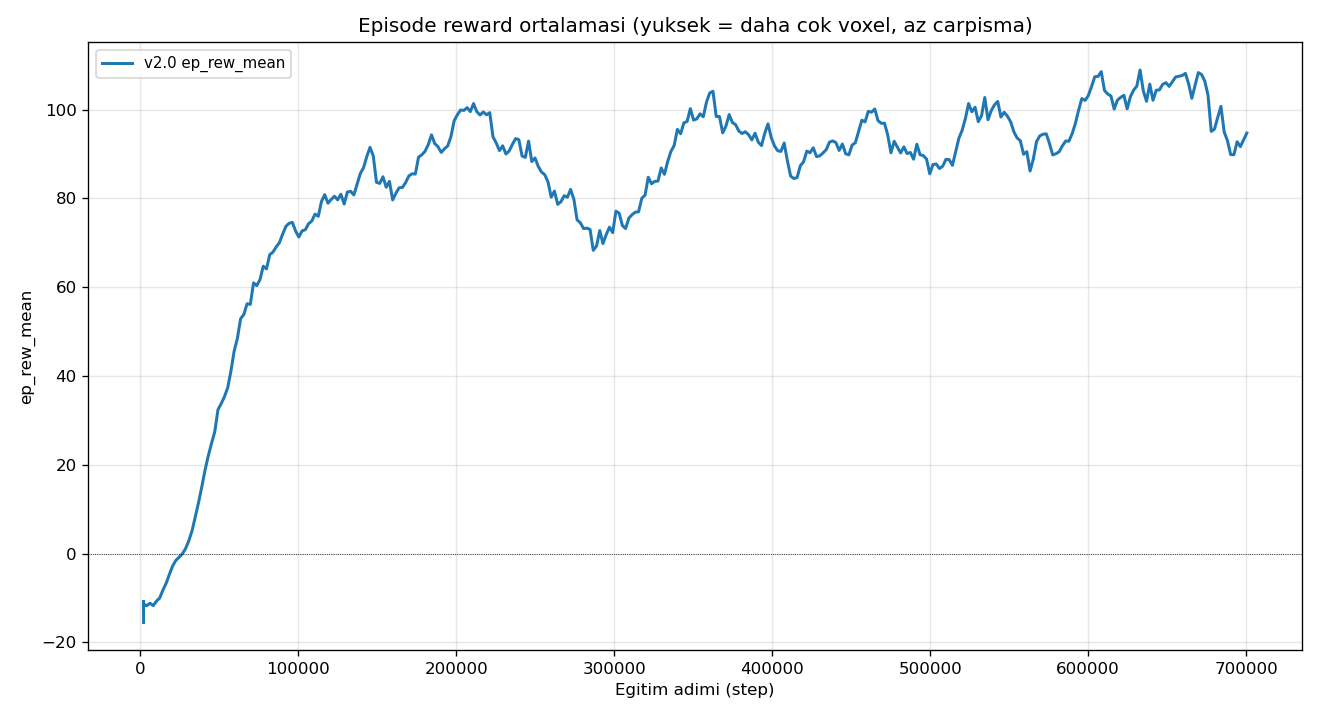
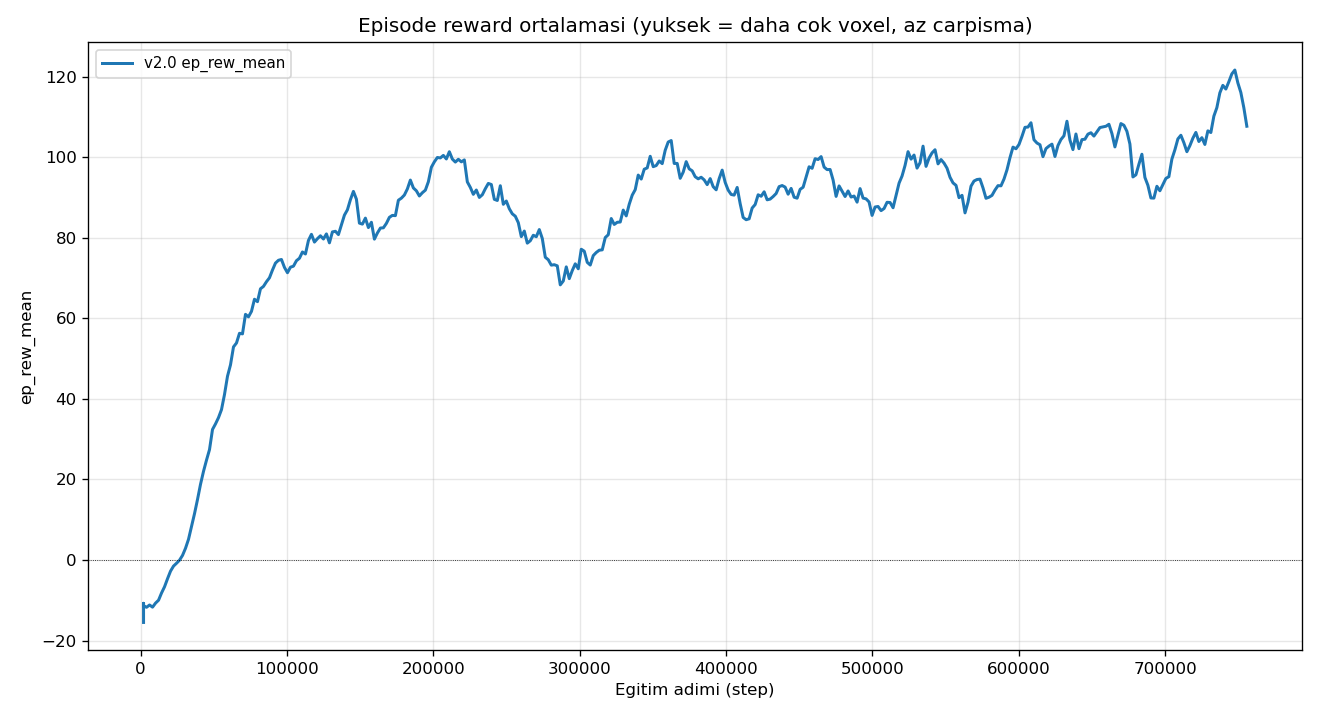
v2.1: yon-duyarli (kapi-bilincli) lidar cezasi + episode 1500 + eval altyapisi
- v2.0 100-ep eval (scripts/eval_coverage.py): carpisma %70, voxels_max 201, kapsama %36
  figurler: docs/figures/eval_v2_0_{coverage,trajectories}.png, docs/EVAL_v2_0.md
- TANI: darbogaz carpisma (kapi/hareketli engel). Eski yonsuz duvar cezasi 2m kapida
  dogru gecisi cezalandiriyordu.
- v2.1 FIX: ileri-ark (+/-22deg, <1.5m) yon-duyarli ceza, siyirma <0.5m, ileri-acik 0.10,
  max_episode_steps 1000->1500, FRESH 500k (runs/ppo_v2_1).
- operator playbook: veriye dayali periyodik tani + hedefli versiyon + bakim modu (sec 0/3.5)

diff --git a/scripts/eval_coverage.py b/scripts/eval_coverage.py
@@ -1,0 +1,208 @@
+#!/usr/bin/env python3
+"""v2.x policy'sini N episode degerlendirir ve haritayi NASIL gezdigini gorsellestirir.
+
+Cikti:
+  docs/figures/eval_<ver>_coverage.png     - kapsama isi haritasi (hangi hucre kac kez gezildi) + duvarlar
+  docs/figures/eval_<ver>_trajectories.png  - ornek yorungeler + baslangic + carpisma noktalari
+  docs/EVAL_<ver>.md                         - istatistik ozeti
+
+Sim AYRI bir process'te ayakta olmali (runner script halleder). norm_obs=false
+oldugu icin policy ham obs bekler -> VecNormalize gerekmez, ham env kullanilir.
+Engeller train_ppo'daki updater thread ile hareket ettirilir (gercekci kosul).
+"""
+from __future__ import annotations
+
+import argparse
+import json
+from pathlib import Path
+
+import numpy as np
+import matplotlib
+matplotlib.use("Agg")
+import matplotlib.pyplot as plt  # noqa: E402
+from matplotlib.lines import Line2D  # noqa: E402
+
+from stable_baselines3 import PPO
+
+from rl_drone_pathfinding.envs import DroneExplorationEnv
+from rl_drone_pathfinding.envs.drone_exploration_env import (
+    SPAWN_X, SPAWN_Y, WORLD_HALF, GRID_NXY, GRID_CELL_XY, N_ROOMS,
+)
+from rl_drone_pathfinding.agents.train_ppo import _start_obstacle_updaters
+
+REPO = Path(__file__).resolve().parents[1]
+TOTAL = GRID_NXY * GRID_NXY
+
+# multi_room.sdf duvar segmentleri (gorsel icin) — [(x0,y0,x1,y1), ...]
+WALLS = [
+    # dis sinir
+    (-8, -8, 8, -8), (-8, 8, 8, 8), (-8, -8, -8, 8), (8, -8, 8, 8),
+    # ic dikey x=-2 (kapi y[-4,-2])
+    (-2, -8, -2, -4), (-2, -2, -2, 8),
+    # ic dikey x=4 (kapi y[3,5])
+    (4, -8, 4, 3), (4, 5, 4, 8),
+    # ic yatay y=0 (kapilar x[-7,-5],[0,2],[5,7])
+    (-8, 0, -7, 0), (-5, 0, 0, 0), (2, 0, 5, 0), (7, 0, 8, 0),
+]
+
+
+def draw_walls(ax):
+    for (x0, y0, x1, y1) in WALLS:
+        ax.plot([x0, x1], [y0, y1], color="black", linewidth=2.5, zorder=5)
+    # oda etiketleri
+    labels = {"R3": (-5, 4), "R4": (1, 4), "R5": (6, 4),
+              "R0": (-5, -4), "R1": (1, -4), "R2": (6, -4)}
+    for name, (lx, ly) in labels.items():
+        ax.text(lx, ly, name, fontsize=9, color="gray", ha="center", alpha=0.6, zorder=4)
+
+
+def main(argv=None):
+    ap = argparse.ArgumentParser()
+    ap.add_argument("--model", required=True)
+    ap.add_argument("--episodes", type=int, default=100)
+    ap.add_argument("--config", default=str(REPO / "configs/ppo.yaml"))
+    ap.add_argument("--deterministic", action="store_true", default=True)
+    ap.add_argument("--stochastic", dest="deterministic", action="store_false")
+    ap.add_argument("--version", default="v2_0")
+    args = ap.parse_args(argv)
+
+    import yaml
+    cfg = yaml.safe_load(open(args.config))
+    env_cfg = cfg["env"]
+
+    env = DroneExplorationEnv(
+        world_name=env_cfg["world_name"],
+        drone_name=env_cfg["drone_name"],
+        max_episode_steps=env_cfg["max_episode_steps"],
+    )
+    # Engelleri hareket ettir (egitimdeki gercekci kosul)
+    obs_threads, obs_stop = _start_obstacle_updaters(env_cfg["world_name"], 1)
+
+    model = PPO.load(args.model)
+    print(f"[eval] model={args.model} episodes={args.episodes} deterministic={args.deterministic}")
+
+    coverage = np.zeros((GRID_NXY, GRID_NXY), dtype=np.float64)
+    returns, voxels_l, rooms_l, eplen_l = [], [], [], []
+    collisions = 0
+    collision_pts = []
+    trajectories = []  # ornek yorungeler (ilk ~12)
+
+    for ep in range(args.episodes):
+        obs, _ = env.reset()
+        done = False
+        ret = 0.0
+        traj = [(SPAWN_X, SPAWN_Y)]
+        info = {}
+        steps = 0
+        while not done:
+            action, _ = model.predict(obs, deterministic=args.deterministic)
+            obs, r, term, trunc, info = env.step(action)
+            ret += r
+            steps += 1
+            traj.append((info["x"], info["y"]))
+            done = term or trunc
+        coverage += env._explored
+        returns.append(ret)
+        voxels_l.append(info.get("explored_voxels", 0))
+        rooms_l.append(info.get("visited_rooms", 0))
+        eplen_l.append(steps)
+        if info.get("collision"):
+            collisions += 1
+            collision_pts.append((info["x"], info["y"]))
+        if ep < 12:
+            trajectories.append((traj, bool(info.get("collision"))))
+        if (ep + 1) % 10 == 0:
+            print(f"[eval] {ep+1}/{args.episodes}  ret~{np.mean(returns):.1f}  "
+                  f"vox~{np.mean(voxels_l):.0f}  rooms~{np.mean(rooms_l):.2f}  "
+                  f"col%={100*collisions/(ep+1):.0f}", flush=True)
+
+    obs_stop.set()
+
+    returns = np.array(returns); voxels_l = np.array(voxels_l)
+    rooms_l = np.array(rooms_l); eplen_l = np.array(eplen_l)
+    cov_cells = int((coverage > 0).sum())  # en az 1 kez gezilen hucre sayisi
+
+    fig_dir = REPO / "docs" / "figures"; fig_dir.mkdir(parents=True, exist_ok=True)
+
+    # ---- Figur 1: kapsama isi haritasi ----
+    fig, ax = plt.subplots(figsize=(9, 8))
+    frac = coverage.T / args.episodes  # T: x yatay, y dikey
+    im = ax.imshow(frac, origin="lower", extent=[-WORLD_HALF, WORLD_HALF, -WORLD_HALF, WORLD_HALF],
+                   cmap="viridis", vmin=0, vmax=1, aspect="equal")
+    draw_walls(ax)
+    ax.plot(SPAWN_X, SPAWN_Y, marker="*", color="red", markersize=20,
+            markeredgecolor="white", zorder=6, label="Baslangic (R0)")
+    fig.colorbar(im, ax=ax, label="episode orani (1.0 = her episode gezildi)")
+    ax.set_title(f"v2.0 KAPSAMA ISI HARITASI — {args.episodes} episode\n"
+                 f"birlesik benzersiz hucre: {cov_cells}/{TOTAL}")
+    ax.set_xlabel("x (m)"); ax.set_ylabel("y (m)"); ax.legend(loc="upper right")
+    fig.tight_layout()
+    p1 = fig_dir / f"eval_{args.version}_coverage.png"; fig.savefig(p1, dpi=120); plt.close(fig)
+    print(f"saved {p1}")
+
+    # ---- Figur 2: ornek yorungeler + carpisma noktalari ----
+    fig, ax = plt.subplots(figsize=(9, 8))
+    draw_walls(ax)
+    cmap = plt.cm.tab10
+    for i, (traj, col) in enumerate(trajectories):
+        xs = [p[0] for p in traj]; ys = [p[1] for p in traj]
+        ax.plot(xs, ys, color=cmap(i % 10), linewidth=1.0, alpha=0.7, zorder=3)
+    # tum carpisma noktalari
+    if collision_pts:
+        cx = [p[0] for p in collision_pts]; cy = [p[1] for p in collision_pts]
+        ax.scatter(cx, cy, marker="x", color="red", s=60, linewidths=2,
+                   zorder=7, label=f"carpisma ({len(collision_pts)})")
+    ax.plot(SPAWN_X, SPAWN_Y, marker="*", color="lime", markersize=20,
+            markeredgecolor="black", zorder=8, label="Baslangic (R0)")
+    ax.set_xlim(-WORLD_HALF, WORLD_HALF); ax.set_ylim(-WORLD_HALF, WORLD_HALF)
+    ax.set_aspect("equal")
+    ax.set_title(f"v2.0 ORNEK YORUNGELER (ilk {len(trajectories)} ep) + TUM carpisma noktalari")
+    ax.set_xlabel("x (m)"); ax.set_ylabel("y (m)"); ax.legend(loc="upper right")
+    fig.tight_layout()
+    p2 = fig_dir / f"eval_{args.version}_trajectories.png"; fig.savefig(p2, dpi=120); plt.close(fig)
+    print(f"saved {p2}")
+
+    # ---- Markdown ozet ----
+    def stat(a):
+        return f"{a.mean():.1f} ± {a.std():.1f}  (min {a.min():.0f}, max {a.max():.0f})"
+    md = [
+        f"# v2.0 Performans Degerlendirmesi — {args.episodes} episode", "",
+        f"Model: `{Path(args.model).name}` | deterministic={args.deterministic} | hareketli engeller: aktif", "",
+        "## Istatistikler", "",
+        "| Metrik | Deger |", "|---|---|",
+        f"| Return (odul) | {stat(returns)} |",
+        f"| Kesfedilen voxel / {TOTAL} | {stat(voxels_l)} |",
+        f"| Ziyaret edilen oda / {N_ROOMS} | {stat(rooms_l)} |",
+        f"| Episode uzunlugu / {env_cfg['max_episode_steps']} | {stat(eplen_l)} |",
+        f"| Carpisma orani | {100*collisions/args.episodes:.0f}% ({collisions}/{args.episodes}) |",
+        f"| Birlesik benzersiz hucre kapsama | {cov_cells}/{TOTAL} ({100*cov_cells/TOTAL:.0f}%) |",
+        "",
+        "## Yorum",
+        f"- Episode'larin %{100*collisions/args.episodes:.0f}'i CARPISMA ile bitti "
+        f"(ort. {eplen_l.mean():.0f}/{env_cfg['max_episode_steps']} adim). Carpismasa daha cok gezecek.",
+        f"- {N_ROOMS} odanin ortalama {rooms_l.mean():.1f}'ine ulasiliyor (max {rooms_l.max():.0f}).",
+        f"- 100 episode birlesince haritanin %{100*cov_cells/TOTAL:.0f}'i en az bir kez geziliyor.",
+        "",
+        "![coverage](figures/eval_%s_coverage.png)" % args.version, "",
+        "![trajectories](figures/eval_%s_trajectories.png)" % args.version, "",
+    ]
+    (REPO / "docs" / f"EVAL_{args.version}.md").write_text("\n".join(md))
+    print(f"saved {REPO / 'docs' / f'EVAL_{args.version}.md'}")
+
+    # JSON ozet (stdout) — runner/operator parse edebilir
+    print("EVAL_SUMMARY " + json.dumps({
+        "episodes": args.episodes,
+        "return_mean": float(returns.mean()), "return_std": float(returns.std()),
+        "voxels_mean": float(voxels_l.mean()), "voxels_max": int(voxels_l.max()),
+        "rooms_mean": float(rooms_l.mean()), "rooms_max": int(rooms_l.max()),
+        "eplen_mean": float(eplen_l.mean()),
+        "collision_rate": collisions / args.episodes,
+        "union_coverage_cells": cov_cells, "union_coverage_pct": 100 * cov_cells / TOTAL,
+    }))
+
+    import os as _os
+    _os._exit(0)
+
+
+if __name__ == "__main__":
+    main()

diff --git a/ros2_ws/src/rl_drone_pathfinding/rl_drone_pathfinding/envs/drone_exploration_env.py b/ros2_ws/src/rl_drone_pathfinding/rl_drone_pathfinding/envs/drone_exploration_env.py
@@ -22,18 +22,21 @@ Gozlem (40-d, hepsi normalize [-1,1] / [0,1]):
     [36:38] : (kesif_orani, ziyaret_edilen_oda_orani)              -> [0,1]
     [38:40] : (min_lidar/LIDAR_MAX, idle_orani)                    -> [0,1]
 
-Odul (v2.0 — temiz, olcekli, yorumlanabilir):
+Odul (v2.1 — YON-DUYARLI ceza; v2.0 eval'inde %70 carpisma -> kapi/engel-bilincli):
     bir adimda toplam r =
         -0.01                          her adim zaman cezasi
         +1.0   * yeni_voxel            yeni zemin hucresi kesfi (ANA sinyal)
         +10.0  * yeni_oda              yeni odaya gecis (kilometre tasi)
         -0.05  (idle)                  IDLE_GRACE adimdir yeni voxel yoksa
-        -0.5 * (1 - d/WALL_DIST)       duvara/engele yaklasma (d<WALL_DIST)
-        +0.05 * acik_on * ileri        ileri-acik bootstrap sekillendirmesi
+        -0.6 * (1 - fwd/1.5)           ILERI-ARK engel yakin (gidilen yon) -> kapi-bilincli
+        -0.3 * (1 - d/0.5)             her yon cok yakin (siyirma; kapi 0.85m -> guvende)
+        +0.10 * acik_on * ileri        ileri-acik bonus (acikliklardan gec)
         -10.0  (terminal)              CARPISMA (d < COLLISION_DIST) -> episode biter
 
-    Episodik getiri ~= kesfedilen voxel sayisi (+ oda bonuslari - cezalar).
-    Yani "return'u maksimize et" dogrudan "voxel'i maksimize et" demek.
+    v2.0 -> v2.1 farki: duvar cezasi YONSUZ (scan_min) idi -> 2m kapilarda yan
+    duvarlar ~0.85m'de oldugu icin dogru kapi gecisini cezalandiriyordu. v2.1'de
+    ceza GIDILEN yondeki (ileri-ark) engele bagli; ayrica episode 1000->1500.
+    Episodik getiri ~= kesfedilen voxel sayisi. "return'u maksimize et" = "voxel'i maksimize et".
 
 NOT: Engelleri bu env TASIMAZ. SubprocVecEnv/worker icinden gz service
 cagrisi IPC pipe'ini bozabiliyordu; bu yuzden hareket train_ppo'daki
@@ -78,7 +81,15 @@ HOVER_Z      = 0.6          # sabit irtifa
 V_REVERSE    = -0.25        # izin verilen kucuk geri hiz (duvardan kurtulma)
 
 COLLISION_DIST    = 0.30    # bu mesafenin altinda carpisma kabul (episode biter)
-WALL_PENALTY_DIST = 1.0     # bu mesafeden yakinsa progresif duvar cezasi
+# --- v2.1: YON-DUYARLI (kapi-bilincli) lidar cezasi ---
+# Kapilar 2m genis, drone 0.3m -> kapi ortasinda yan duvarlar ~0.85m'de.
+# Eski yonsuz ceza (scan_min<1.0) dogru kapi gecisini cezalandiriyordu.
+# v2.1: cezayi GIDILEN yondeki (ileri-ark) engele bagla; yanlar yakin ama
+# on acik (=kapidan geciyor) ise cezalandirma.
+FWD_ARC_HALF      = 2       # ileri-ark = FORWARD_BIN +/- 2 bin (~+/-22 derece)
+FWD_PENALTY_DIST  = 1.5     # ileri yonde bu mesafeden yakin engel/duvar -> progresif ceza
+SCRAPE_DIST       = 0.5     # her yonde siyirma cezasi (kapi 0.85m'nin altinda -> kapilar guvende)
+FWD_OPEN_BONUS    = 0.10    # ileri acikken ileri gitme bonusu (acikliklardan gecmeyi tesvik)
 STEP_DT           = 0.02    # her adim wall-clock bekleme
 IDLE_GRACE        = 40      # bu kadar adim yeni voxel yoksa idle cezasi
 
@@ -295,7 +306,7 @@ class DroneExplorationEnv(gym.Env):
         if new_room:
             self._visited_rooms.add(groom)
 
-        # ----- ODUL (v2.0 temiz) -----
+        # ----- ODUL (v2.1: yon-duyarli ceza) -----
         reward = -0.01                                   # zaman
 
         if new_voxel:
@@ -309,16 +320,25 @@ class DroneExplorationEnv(gym.Env):
         if new_room:
             reward += 10.0                               # oda kilometre tasi
 
-        # Progresif duvar/engel yaklasma cezasi
-        if scan_min < WALL_PENALTY_DIST:
-            reward -= 0.5 * (WALL_PENALTY_DIST - scan_min) / WALL_PENALTY_DIST
+        # v2.1 YON-DUYARLI ceza: sadece GIDILEN yondeki (ileri-ark) engel yakinsa
+        # cezalandir (=duvara/engele daliyor). Yanlar yakin ama on acik (=kapidan
+        # geciyor) ise CEZA YOK -> 2m kapilardan rahat gecsin.
+        lo = max(0, FORWARD_BIN - FWD_ARC_HALF)
+        hi = min(LIDAR_BINS, FORWARD_BIN + FWD_ARC_HALF + 1)
+        fwd_clear = float(lidar_obs[lo:hi].min()) * LIDAR_MAX
+        if fwd_clear < FWD_PENALTY_DIST:
+            reward -= 0.6 * (FWD_PENALTY_DIST - fwd_clear) / FWD_PENALTY_DIST
 
-        # Ileri-acik bootstrap: on lidar acikken ileri gitmeyi hafifce odullendir
+        # Siyirma cezasi: her yonde COK yakin (kapi genisliginin altinda) -> kucuk ceza
+        if scan_min < SCRAPE_DIST:
+            reward -= 0.3 * (SCRAPE_DIST - scan_min) / SCRAPE_DIST
+
+        # Ileri-acik bonus: on acikken ileri gitmeyi odullendir (acikliklardan gec)
         forward_open = float(lidar_obs[FORWARD_BIN])
         forward_act  = float(np.clip(a[0], 0.0, 1.0))
-        reward += 0.05 * forward_open * forward_act
+        reward += FWD_OPEN_BONUS * forward_open * forward_act
 
-        # Carpisma -> terminal
+        # Carpisma -> terminal (her yon, fiziksel temas)
         terminated = False
         if scan_min < COLLISION_DIST:
             reward -= 10.0

diff --git a/.claude/agents/rl-train-operator.md b/.claude/agents/rl-train-operator.md
@@ -42,6 +42,13 @@ v2.1 → v2.2 → ... ilerlet. Risk iştahı: **DENGELİ**.
 
 ## Kontrol döngüsü (her çağrıda sırayla)
 
+### 0) Bakım modu kontrolü (HER ŞEYDEN ÖNCE)
+Eğer `/tmp/operator_pause` dosyası VARSA: hiçbir şey yapma — kill/restart/config/git
+DEĞİŞİKLİĞİ YOK. Dosyanın içeriğini oku (neden duraklatıldığı yazar), "BAKIM MODU —
+operatör duraklatıldı (<neden>), müdahale yok" diye rapor dön ve ÇIK. Berker veya
+supervisor manuel işlem (örn. eval) yapıyor; eğitim kasıtlı durdurulmuş olabilir,
+TRAIN-YOK görsen bile RESTART ETME.
+
 ### 1) Durum topla
 ```
 cd /home/berkerygt/Desktop/RLProje/rl_drone_pathfinding
@@ -92,12 +99,28 @@ Aşağıdan **ilk eşleşen** durumu uygula (döngü başına bir büyük müdah
 Her müdahaleden ÖNCE `cp $CKPT/vec_normalize.pkl $CKPT/vec_normalize_bak.pkl` (varsa).
 Config'de `ppo.*` değişikliğinde train_ppo resume'da bunu otomatik uygular.
 
+### 3.5) Periyodik TANI — veriye dayalı (Berker'in istediği)
+Her tıkta DARBOĞAZI teşhis et (ayrı eval gerekmez, tb_metrics yeterli) ve raporda belirt.
+Bu teşhis, versiyon atlama kararını YÖNLENDİRİR (rastgele değil, kanıta dayalı):
+- **Çarpışma darboğazı**: `ep_len_mean < 0.6 × max_episode_steps` → episode'lar erken bitiyor =
+  çok çarpışma. (v2.0 tanısı: ep_len ~471/1000 → ~%70 çarpışma; eval ile doğrulandı.)
+- **Kapsama tavanı**: `voxels_max` birkaç tıktır artmıyor, `rooms_max==6`, `ep_len_mean` max'a yakın
+  → episode bütçesi/verimlilik darboğazı.
+- **Dithering/tıkanma**: `voxels_mean` ve reward düşük, idle yüksek → keşif yön şekillendirmesi zayıf.
+- **Tutarsızlık**: `rooms_max` yüksek ama `rooms_mean` düşük → policy kararsız.
+Derinlemesine emin olman gerekirse: bakım moduna al (`/tmp/operator_pause` yaz), `scripts/eval_coverage.py`
+ile 20-30 episode kısa eval koş (çarpışma oranı + kapsama haritası), sonra pause'u kaldır — ama bu
+eğitimi durdurur, yalnızca plato netken yap.
+
 ### 4) Versiyon atlama (v2.x) — voxel kapsamını yükseltmek için
 Mantıklı bulduğun reward/obs iyileştirmesiyle yeni versiyon aç:
 1. Yeni minor seç (örn v2.0 → v2.1). Yeni dizin: `runs/ppo_v2_<minor>` (nokta yerine alt çizgi).
-2. `configs/ppo.yaml`: `train.version`, `log_dir`, `ckpt_dir`, `tb_log`'u yeni dizine al.
-3. Reward semantiği KÜÇÜK değiştiyse (katsayı ayarı) → warm-start:
-   `resume_from`=önceki en iyi ckpt. Reward semantiği BÜYÜK değiştiyse → `resume_from: null` (fresh).
+2. `configs/ppo.yaml`: `train.version`, `log_dir`, `ckpt_dir`, `tb_log`'u yeni dizine al;
+   **`total_timesteps: 500000`** (Berker: doğru ödülle 500k yeterli) ve **`resume_from: null`** (FRESH —
+   temiz karşılaştırma + clean-slate). Değişikliği §3.5 TANISINA göre HEDEFLE (rastgele değil):
+   çarpışma darboğazı → yön-duyarlı (ileri-ark) lidar cezası + `max_episode_steps 1000→1500` (+gerekirse
+   çarpışma cezasını yumuşat); kapsama tavanı → episode uzat / verimlilik ödülü; dithering → frontier shaping artır.
+3. TEK tema/eksen değiştir, etkisini 500k'da ölç (karşılaştırılabilirlik için).
 4. Gerekirse `envs/drone_exploration_env.py` reward bloğunu düzenle (sadece §3-dışı
    yapısal iyileştirme). **Kurallara dokunma** (spawn/harita/n_envs/2D action sabit).
 5. Env değiştiysen rebuild: `cd ros2_ws && source /opt/ros/jazzy/setup.bash && colcon build --symlink-install`.

diff --git a/docs/PROGRESS.md b/docs/PROGRESS.md
@@ -560,3 +560,14 @@ Berker "aptal" Python babysitter istemiyor (geçen sefer rezalet çalıştı). Y
   `scripts/tb_metrics.py` (operatörün gözü), `scripts/report.py` (figür+REPORT.md).
 
 Eğitim ve geliştirme Berker "dur" diyene kadar sürekli çalışacak.
+
+## 2026-05-31 ~11:18 — v2.1 (yon-duyarli lidar cezasi, eval-tabanli)
+v2.0 (780k) 100-episode degerlendirildi (scripts/eval_coverage.py): carpisma %70, ep_len
+462/1000, voxels_max 201, oda ort 3.57/6, 100-ep birlesik kapsama 371/1024 (%36).
+Figurler: docs/figures/eval_v2_0_coverage.png (R0->R1->R4->R5 rotasi ogrenilmis ama oda
+ICI taranmiyor; R3/R2 az), eval_v2_0_trajectories.png (carpismalar R2 dar oda + hareketli
+engel ve R0/R1 kapi bolgesinde kumeleniyor).
+TANI: darbogaz CARPISMA. Eski duvar cezasi YONSUZ (scan_min<1.0m) -> 2m kapida yan duvarlar
+~0.85m -> dogru kapi gecisini cezalandiriyordu. v2.1 FIX: ceza GIDILEN yonde (ileri-ark
++/-22deg, <1.5m); siyirma cezasi <0.5m (kapilar guvende); ileri-acik bonus 0.10; episode
+1000->1500. FRESH 500k (runs/ppo_v2_1). Ayni operator agent surduruyor.

diff --git a/docs/EVAL_v2_0.md b/docs/EVAL_v2_0.md
@@ -1,0 +1,23 @@
+# v2.0 Performans Degerlendirmesi — 100 episode
+
+Model: `ppo_drone_780000_steps.zip` | deterministic=True | hareketli engeller: aktif
+
+## Istatistikler
+
+| Metrik | Deger |
+|---|---|
+| Return (odul) | 85.8 ± 85.4  (min -11, max 230) |
+| Kesfedilen voxel / 1024 | 80.1 ± 73.1  (min 1, max 201) |
+| Ziyaret edilen oda / 6 | 3.6 ± 2.1  (min 1, max 6) |
+| Episode uzunlugu / 1000 | 462.2 ± 433.9  (min 1, max 1000) |
+| Carpisma orani | 70% (70/100) |
+| Birlesik benzersiz hucre kapsama | 371/1024 (36%) |
+
+## Yorum
+- Episode'larin %70'i CARPISMA ile bitti (ort. 462/1000 adim). Carpismasa daha cok gezecek.
+- 6 odanin ortalama 3.6'ine ulasiliyor (max 6).
+- 100 episode birlesince haritanin %36'i en az bir kez geziliyor.
+
+![coverage](figures/eval_v2_0_coverage.png)
+
+![trajectories](figures/eval_v2_0_trajectories.png)

diff --git a/docs/REPORT.md b/docs/REPORT.md
@@ -6,7 +6,7 @@ Otomatik uretildi (`scripts/report.py`). Operator agent gunceller.
 
 | Versiyon | Son step | Son reward | Peak reward | Peak voxel (max) | Peak oda (max) |
 |---|---|---|---|---|---|
-| v2.0 | 700,416 | +94.7 | +108.9 | 227/1024 | 6/6 |
+| v2.0 | 755,712 | +107.7 | +121.6 | 232/1024 | 6/6 |
 
 ## Versiyon / Mudahale Gunlugu
 
